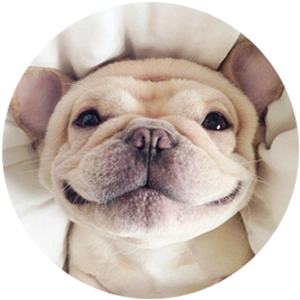
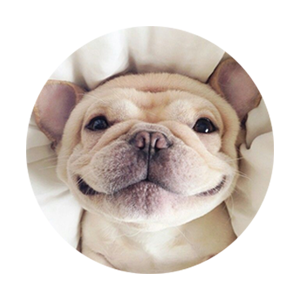
resizing images

diff --git a/diet.html b/diet.html
@@ -36,7 +36,7 @@
       </header>
      </div>
     <div style = "text-align:center;">
-      <img src = "images/bulldogdiet.png"width="300">
+      <img src = "images/bulldogdiet.png">
       <h4 class = "title">Diet</h4>
       <p class = "grey">Keep in mind that feeding guidelines are just a starting point and you’ll need to find your bulldog’s optimal food consumption by trial and error and by observing his body weight.
 

diff --git a/gallery.html b/gallery.html
@@ -45,7 +45,7 @@
       </header>
      </div>
     <div class = "center">
-      <img src = "bulldog/images/FRENCH BULLDOG.png"width="300">
+      <img src = "images/bulldog1.png">
       <h4 class= "title">Gallery</h4>
         <div class= "photogrid"><img src="images/bulldogphoto1.png" width=100%></div>
         <div class= "photogrid"><img src="images/bulldogphoto2.png" width=100%></div>
